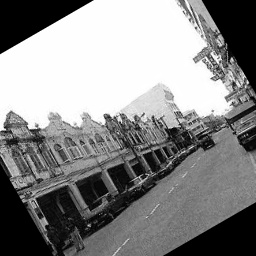
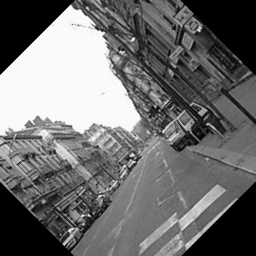
Nuevo Main

diff --git a/Main2.py b/Main2.py
@@ -1,0 +1,101 @@
+# Libraries
+import cv2 
+import time
+# Scripts
+from DE import Genotype
+import Transformations as tr
+import Process as pr
+
+# Main process for interest point detection
+def main(img1, img2, umbral_deteccion, population_size, genotype_length, low_lim, up_lim, mutation_rate, crossover_rate, generations, termination_criteria, wr, low_keypoints_number, up_keypoints_number, transformation, transformation_value, no):
+    # Start timer
+    start = time.time()
+    # Condition in case the image was not found
+    if img1 is None or img2 is None:
+        raise ValueError("Image not found")
+
+    # Dimension change
+    # img1 = cv2.resize(img1, (500, 500))
+    # img2 = cv2.resize(img2, (500, 500))
+
+    # Grayscale conversion of the image
+    img1 = cv2.cvtColor(img1, cv2.COLOR_BGR2GRAY)
+    img2 = cv2.cvtColor(img2, cv2.COLOR_BGR2GRAY)
+
+    # Population creation through differential evolution
+    genotype = Genotype(population_size, genotype_length, low_lim, up_lim, mutation_rate, crossover_rate)
+    population = genotype.init_population()
+
+    # A loop is performed over the established range of generations
+    for generation in range(generations):        
+        repeatability_population, filter_M, images, transformed_images = pr.repeatability(population, img1.copy(), img2.copy(), umbral_deteccion, wr, low_keypoints_number, up_keypoints_number, transformation, transformation_value)
+        best_current_fitness = max(repeatability_population)
+        best_current_genotype = filter_M[repeatability_population.index(best_current_fitness)]
+        best_current_image = images[repeatability_population.index(best_current_fitness)]
+        best_current_transformed_image = transformed_images[repeatability_population.index(best_current_fitness)]
+
+        if generation == 0:
+            best_fitness = best_current_fitness
+            best_genotype = best_current_genotype
+            best_image = best_current_image
+            best_rotated_image = best_current_transformed_image
+        else:
+            if best_current_fitness > best_fitness:
+                best_fitness = best_current_fitness
+                best_genotype = best_current_genotype
+                best_image = best_current_image
+                best_rotated_image = best_current_transformed_image
+
+        mutation = genotype.Mutation(population)
+        crossover = genotype.Crossover(population, mutation)
+        repeatability_crossover, _, _, _ = pr.repeatability(crossover, img1.copy(), img2.copy(), umbral_deteccion, wr, low_keypoints_number, up_keypoints_number, transformation, transformation_value)
+        genotype.Selection(population, crossover, repeatability_population, repeatability_crossover)
+
+        # Console output with the best fitness every 10 generations
+        if (generation + 1) % 10 == 0:
+            print(f'Generation {generation + 1}: Best Fitness = {best_current_fitness}')
+        # Stopping criterion when the best solution has been found
+        if best_fitness >= termination_criteria:
+            print(f'Generation {generation + 1}')
+            print(f'Best Solution: {best_genotype}')
+            print(f'Best Fitness: {best_fitness}')
+            end = time.time()
+            print(f'Time: {end - start}')
+            cv2.imwrite(f'Original{no}.jpg', best_image)
+            cv2.imwrite(f'Transformed{no}.jpg', best_rotated_image)
+            break
+        # Console output when all generations have finished        
+        elif generation == GENERATIONS - 1:
+            print(f'Generation {GENERATIONS}')
+            print(f'Best Solution: {best_genotype}')
+            print(f'Best Fitness: {best_fitness}')
+            end = time.time()
+            print(f'Time: {end - start}')
+            cv2.imwrite(f'Original{no}.jpg', best_image)
+            cv2.imwrite(f'Transformed{no}.jpg', best_rotated_image)
+
+# Procesar varias imagenes a la vez y distintas transformaciones
+for i in range(1, 6):
+    print(f'Imagen {i}')
+    if __name__ == '__main__':
+        # Parameters
+        IMG1 = cv2.imread(f'img/img{i}.jpg')
+        IMG2 = cv2.imread(f'img/Translation{i}.jpg')
+        TRANSFORMATIONS = [10, 20, 30, 40, 50]
+        UMBRAL = 0.95
+        POPULATION_SIZE = 20
+        GENOTYPE_LENGTH = 50
+        LOW_LIM_GEN = 1
+        UP_LIM_GEN = 255
+        F = 0.5  # Xm = Xi + f (x2 - x3)
+        CROSSOVER_RATE = 0.7
+        GENERATIONS = 100
+        TERMINATION_CRITERIA = 95.0
+        WR = 3
+        LOW_LIM_KN = 100  # KN -> Keypoints Number
+        UP_LIM_KN = 3000
+        TRANSFORMATION = tr.translate
+        TRANSFORMATION_VALUE = TRANSFORMATIONS[i - 1]
+        no = i
+
+        main(IMG1, IMG2, UMBRAL, POPULATION_SIZE, GENOTYPE_LENGTH, LOW_LIM_GEN, UP_LIM_GEN, F, CROSSOVER_RATE, GENERATIONS, TERMINATION_CRITERIA, WR, LOW_LIM_KN, UP_LIM_KN, TRANSFORMATION, TRANSFORMATION_VALUE, no)

diff --git a/Transformations.py b/Transformations.py
@@ -47,14 +47,14 @@ def scale(coordenadas, escala):
     matriz_escalada = np.copy(coordenadas)
     
     # Restar el centro de escala
-    matriz_escalada[:, 0] -= 128  # Restar cx de todas las coordenadas x
-    matriz_escalada[:, 1] -= 128  # Restar cy de todas las coordenadas y
+    matriz_escalada[:, 0] -= 128
+    matriz_escalada[:, 1] -= 128
 
     # Aplicar el factor de escala a las coordenadas x e y
-    matriz_escalada[:, :] *= escala  # Escalar las coordenadas y por sy
+    matriz_escalada[:, :] *= escala / 100
 
     # Volver a trasladar al sistema original sumando el centro de escala
-    matriz_escalada[:, 0] += 128  # Sumar cx a todas las coordenadas x
-    matriz_escalada[:, 1] += 128  # Sumar cy a todas las coordenadas y
+    matriz_escalada[:, 0] += 128
+    matriz_escalada[:, 1] += 128
 
     return np.array(matriz_escalada.astype(int))

diff --git a/Main1.py b/Main1.py
@@ -76,8 +76,8 @@ def main(img1, img2, umbral_deteccion, population_size, genotype_length, low_lim
 
 if __name__ == '__main__':
     # Parameters
-    IMG1 = cv2.imread('img/Imagen3.jpg')
-    IMG2 = cv2.imread('img/Scale3.jpg')
+    IMG1 = cv2.imread('img/img1.jpg')
+    IMG2 = cv2.imread('img/Noisy1.jpg')
     UMBRAL = 0.95
     POPULATION_SIZE = 20
     GENOTYPE_LENGTH = 50
@@ -90,7 +90,7 @@ if __name__ == '__main__':
     WR = 3
     LOW_LIM_KN = 100  # KN -> Keypoints Number
     UP_LIM_KN = 3000
-    TRANSFORMATION = tr.scale
-    TRANSFORMATION_VALUE = 0.8
+    TRANSFORMATION = tr.translate
+    TRANSFORMATION_VALUE = 1
 
     main(IMG1, IMG2, UMBRAL, POPULATION_SIZE, GENOTYPE_LENGTH, LOW_LIM_GEN, UP_LIM_GEN, F, CROSSOVER_RATE, GENERATIONS, TERMINATION_CRITERIA, WR, LOW_LIM_KN, UP_LIM_KN, TRANSFORMATION, TRANSFORMATION_VALUE)

diff --git a/tool/Rotacion.py b/tool/Rotacion.py
@@ -18,6 +18,7 @@ def rotation(image, degree):
 
     return rotated_image
 
+angulos = [5, 15, 30, 45, 90]
 for i in range(1, 6):    
-    rotated_image = rotation(cv2.imread(f'../img/Imagen{i}.jpg'), degree=30)
+    rotated_image = rotation(cv2.imread(f'../img/img{i}.jpg'), degree=angulos[i - 1])
     cv2.imwrite(f'../img/Rotation{i}.jpg', rotated_image)

diff --git a/tool/Translations.py b/tool/Translations.py
@@ -10,5 +10,6 @@ def translate(image, pixel_number):
     return traslation
 
 for i in range(1, 6):
-    translation = translate(cv2.imread(f'../img/Imagen{i}.jpg'), 20)
+    values = [10, 20, 30, 40, 50]
+    translation = translate(cv2.imread(f'../img/img{i}.jpg'), values[i - 1])
     cv2.imwrite(f'../img/Translation{i}.jpg', translation)

diff --git a/tool/Scale.py b/tool/Scale.py
@@ -23,5 +23,6 @@ def scale(image, scale_value):
     return output_image
 
 for i in range(1, 6):
-    image = scale(cv2.imread(f'../img/Imagen{i}.jpg'), 80)
+    values = [90, 80, 70, 60, 50]
+    image = scale(cv2.imread(f'../img/img{i}.jpg'), values[i - 1])
     cv2.imwrite(f'../img/Scale{i}.jpg', image)

diff --git a/tool/Ruido.py b/tool/Ruido.py
@@ -31,5 +31,5 @@ def add_gaussian_noise(image, snr_db):
     return noisy_image
 
 for i in range(1, 6):
-    noisy_img = add_gaussian_noise(cv2.imread(f'../img/Imagen{i}.jpg'), 5)
+    noisy_img = add_gaussian_noise(cv2.imread(f'../img/img{i}.jpg'), i)
     cv2.imwrite(f'../img/Noisy{i}.jpg', noisy_img)
